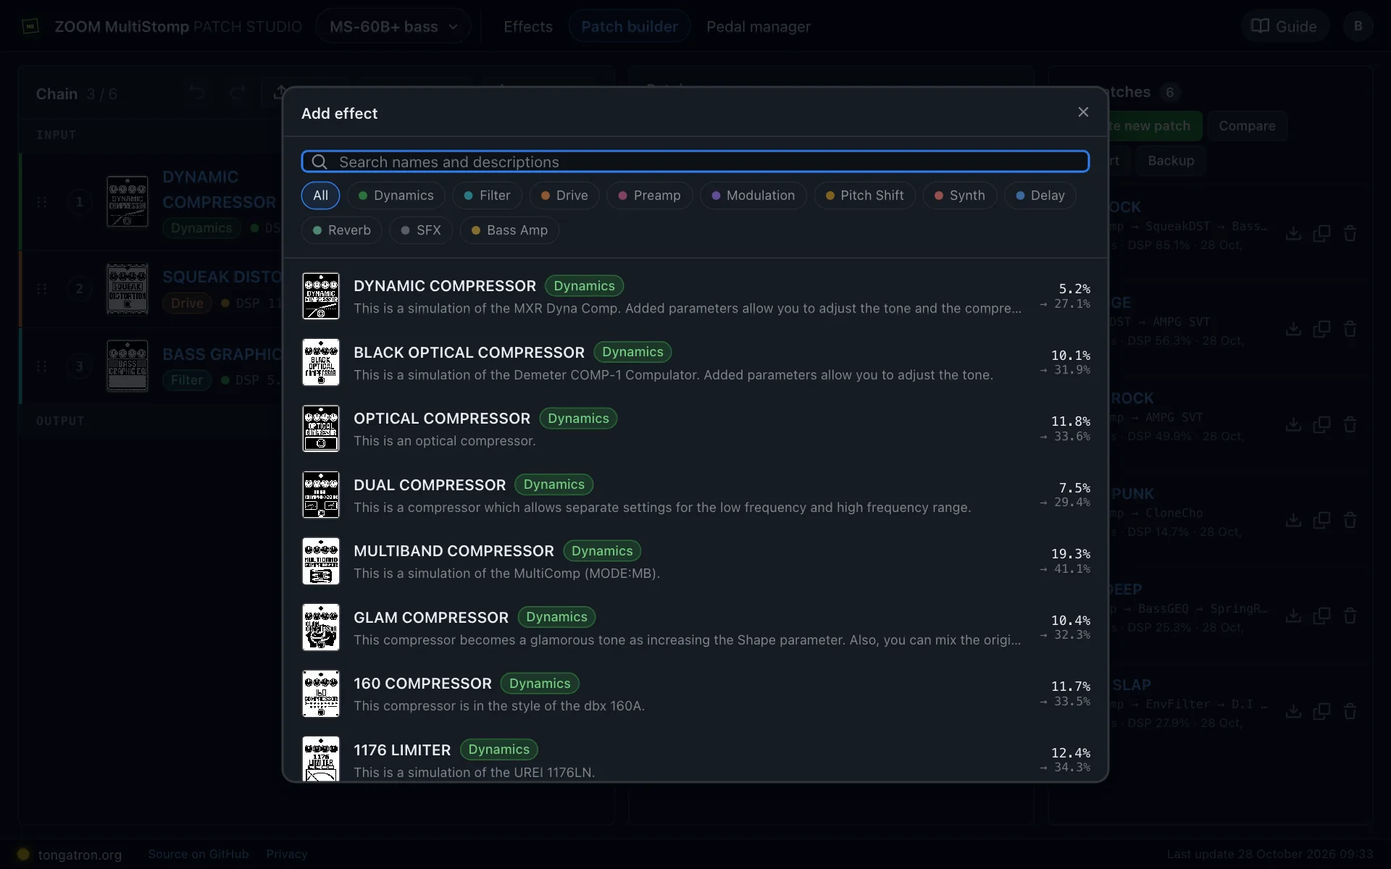
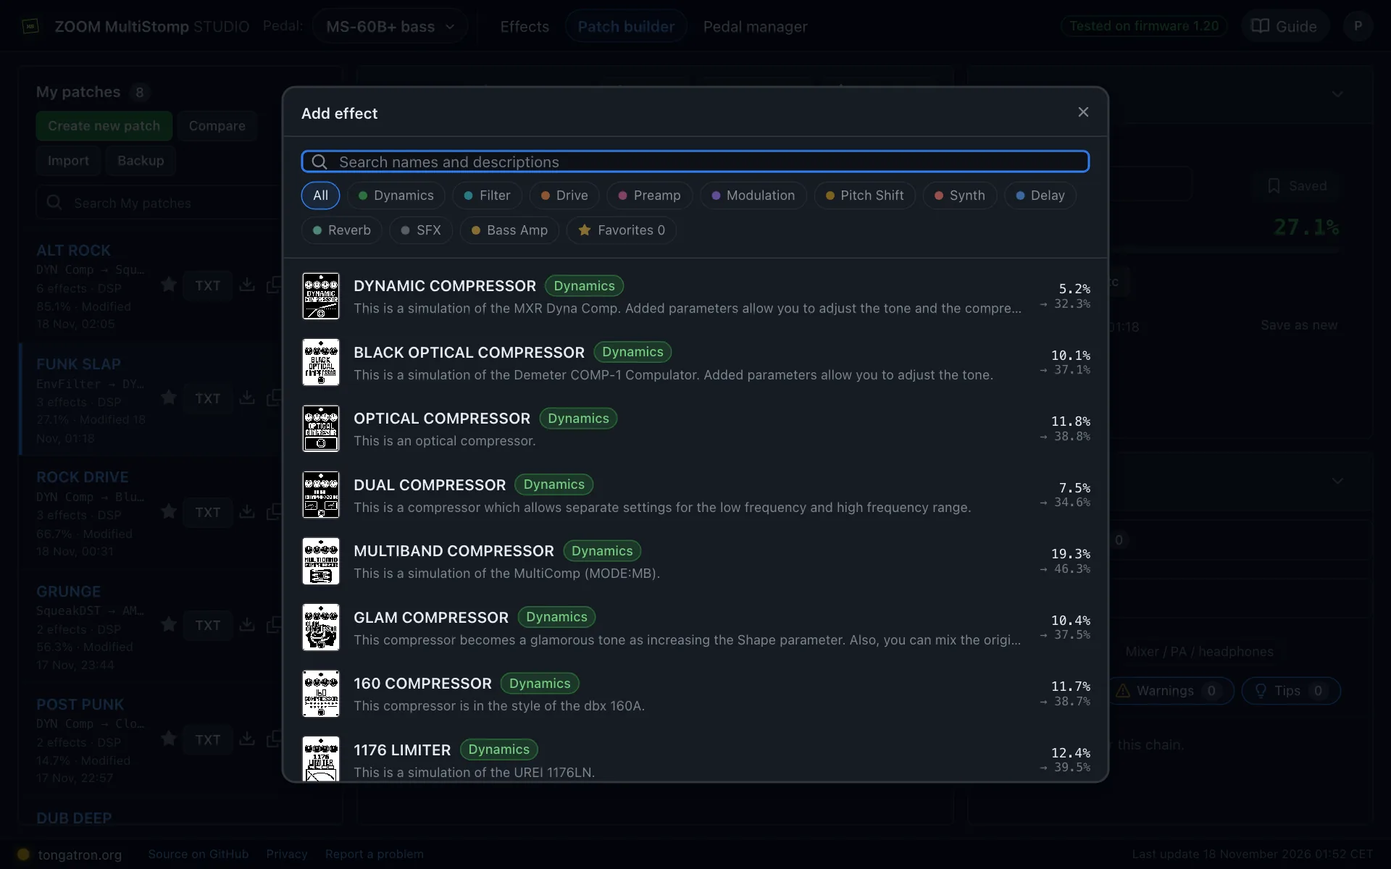
Home: Patch builder and Pedal manager section for the MS-60B+ and MS-70CDR+
Right under the hero, a section shows both tools for the MS-60B+ and the
MS-70CDR+, with a switch above each screenshot (the switches move together)
and links to both pedals' pages; it replaces the old hero screenshot.

New tools/landing-shots.mjs takes the home screenshots from the real pages
(local server, a test account, sample patches, the simulated pedal; cwebp).
Retaken: menu (six pedals), Effects, Add effect, MS-50G+ builder (Beta bar);
alt texts updated. The four screenshots no page used any more are removed.

The Collapse chevron of the Patch and Advice panes was a broken SVG path in
the MS-50G+ and MS-70CDR+ builders (and slightly off in the MS-60B+ Advice):
all six now use the Octicons chevron-down.

tools/fullscreen-test.mjs checks the new section; CLAUDE.md describes it.

diff --git a/site/index.html b/site/index.html
@@ -120,8 +120,17 @@
       .lp-shot { margin: 0; }
       .lp-shot img { display: block; width: 100%; height: auto; border: 1px solid var(--border); border-radius: calc(var(--radius) * 2); background: var(--bg); box-shadow: 0 20px 50px rgba(0, 0, 0, .45); }
       .lp-shot figcaption { margin-top: 12px; font-size: 13px; color: var(--fg-muted); }
-      .lp-hero .lp-shot { margin-top: 48px; }
       .lp-shot--small img { box-shadow: 0 8px 24px rgba(0, 0, 0, .4); }
+      .lp-shot--menu { max-width: 292px; justify-self: center; }
+      /* Patch builder and Pedal manager: a switch above each screenshot shows the page of either pedal (all the switches move together; hidden until the script runs) */
+      .lp-switch { display: inline-flex; gap: 4px; margin: 0 0 12px; padding: 3px; border: 1px solid var(--border); border-radius: 2em; background: var(--bg-subtle); }
+      .lp-switch[hidden], .lp-switchable [data-pedal][hidden] { display: none; }
+      .lp-switch button { height: 28px; padding: 0 14px; border: 0; border-radius: 2em; font: inherit; font-size: 13px; font-weight: 600; color: var(--fg-muted); background: none; cursor: pointer; }
+      .lp-switch button:hover { color: var(--fg); }
+      .lp-switch button[aria-pressed="true"] { color: var(--fg); background: var(--bg-muted); box-shadow: inset 0 0 0 1px var(--border); }
+      .lp-switch button:focus-visible { outline: 2px solid var(--accent-fg); outline-offset: 2px; }
+      .lp-switch small { margin-left: 4px; font-size: 12px; font-weight: 500; color: var(--fg-muted); }
+      .lp-tour-text .lp-cta { margin-top: 20px; }
       .lp-split--wide { grid-template-columns: minmax(0, 1fr) minmax(0, 1.5fr); align-items: start; }
       .lp-stack { display: grid; gap: 28px; }
       .lp-shot--dialog { max-width: 440px; }
@@ -187,10 +196,58 @@
             </figcaption>
           </figure>
         </div>
-        <figure class="lp-shot">
-          <img src="landing/shots/builder.webp" alt="The Patch builder of the studio: a chain of six effects from DYNAMIC COMPRESSOR to ROOM REVERB, the patch name and a DSP load of 85%, the Advice pane with a tip, and the My patches list on the right." width="1920" height="1200" fetchpriority="high" />
-          <figcaption>The Patch builder: a chain of 6 effects at 85% DSP, advice with sources, and your saved patches at the right.</figcaption>
-        </figure>
+      </section>
+
+      <section id="studio" aria-labelledby="studio-title">
+        <p class="lp-eyebrow">Patch builder and Pedal manager · MS-60B+ and MS-70CDR+</p>
+        <h2 id="studio-title">Build a patch, then put it on the pedal</h2>
+        <p class="lp-lead">The two tools at the heart of the studio, the same for the MS-60B+ bass and the MS-70CDR+ spatial pedal, each with its own effects and advice. Switch the pedal above a picture to see its page.</p>
+        <div class="lp-tour">
+          <div class="lp-tour-row">
+            <div class="lp-tour-text">
+              <h3>Patch builder</h3>
+              <p>Your saved patches at the left, the chain in the middle, the patch and its advice at the right.</p>
+              <ul class="lp-checks">
+                <li><b>Up to 6 effects</b>, as on the pedal: drag them into order and set every parameter with its real range.</li>
+                <li><b>Live DSP meter:</b> the load of each effect and of the whole chain against the 100% limit.</li>
+                <li><b>Advice</b> on effect order and levels, with sources, often with a one-click fix.</li>
+                <li><b>My patches:</b> save, compare, back up, and download a <code>.zptc</code> file for Handy Guitar Lab.</li>
+                <li><b>Undo and redo</b> for every edit, also for a deleted or duplicated patch.</li>
+              </ul>
+              <div class="lp-cta lp-pedal-links"><a class="btn btn-sm btn-primary" href="ms-60b/builder.html">MS-60B+ builder</a> <a class="btn btn-sm" href="ms-70cdr/builder.html">MS-70CDR+ builder</a></div>
+            </div>
+            <figure class="lp-shot lp-switchable">
+              <div class="lp-switch" role="group" aria-label="Pedal shown" hidden><button type="button" data-pedal="ms60b" aria-pressed="true">MS-60B+<small>bass</small></button><button type="button" data-pedal="ms70cdr" aria-pressed="false">MS-70CDR+<small>spatial</small></button></div>
+              <img data-pedal="ms60b" src="landing/shots/ms60b-builder.webp" alt="The MS-60B+ Patch builder: My patches on the left with ALT ROCK open, its chain of six effects from DYNAMIC COMPRESSOR to ROOM REVERB in the middle, and on the right the saved patch at 85.1% DSP with Advice under it showing a tip." width="1920" height="1200" fetchpriority="high" />
+              <img data-pedal="ms70cdr" src="landing/shots/ms70cdr-builder.webp" alt="The MS-70CDR+ Patch builder under the yellow Testing bar: My patches on the left with DREAM WASH open, its chain of six effects from COMPRESSOR to HALL REVERB in the middle, and on the right the saved patch at 40.7% DSP with Advice under it." width="1920" height="1200" loading="lazy" hidden />
+              <figcaption data-pedal="ms60b">MS-60B+ bass: a chain of 6 effects at 85.1% DSP, with a tip from Advice.</figcaption>
+              <figcaption data-pedal="ms70cdr" hidden>MS-70CDR+ spatial: the same builder, with its modulation, delay and reverb effects and its own advice rules.</figcaption>
+            </figure>
+          </div>
+
+          <div class="lp-tour-row lp-tour-row--flip">
+            <div class="lp-tour-text">
+              <h3>Pedal manager</h3>
+              <p>Connect the pedal with a USB cable: the patches stored on it next to the ones you saved, without Handy Guitar Lab.</p>
+              <ul class="lp-checks">
+                <li><b>Read</b> every memory of the pedal and open a patch in the builder to edit it.</li>
+                <li><b>Write</b> a patch from My patches to the memory you choose, or clear one.</li>
+                <li><b>Arrange:</b> rename, move or swap memories, or drag the whole pedal into a new order.</li>
+                <li><b>Backup first:</b> before a memory is overwritten its patch is kept in Backups, and you can restore it.</li>
+                <li><b>Checked:</b> after a write the memory is read back, and <b>Undo</b> takes the change back.</li>
+              </ul>
+              <div class="lp-cta lp-pedal-links"><a class="btn btn-sm btn-primary" href="ms-60b/pedal-manager.html">MS-60B+ manager</a> <a class="btn btn-sm" href="ms-70cdr/pedal-manager.html">MS-70CDR+ manager</a></div>
+            </div>
+            <figure class="lp-shot lp-switchable">
+              <div class="lp-switch" role="group" aria-label="Pedal shown" hidden><button type="button" data-pedal="ms60b" aria-pressed="true">MS-60B+<small>bass</small></button><button type="button" data-pedal="ms70cdr" aria-pressed="false">MS-70CDR+<small>spatial</small></button></div>
+              <img data-pedal="ms60b" src="landing/shots/ms60b-pedal-manager.webp" alt="The MS-60B+ Pedal manager with a pedal connected: the red pedal drawing and the connection box on the left, the 100 memories of the pedal in the middle with memory 4 ALT ROCK open to its six effects and its buttons, and My patches on the right, each with a button that sends it to the pedal." width="1920" height="1200" loading="lazy" />
+              <img data-pedal="ms70cdr" src="landing/shots/ms70cdr-pedal-manager.webp" alt="The MS-70CDR+ Pedal manager under the yellow Testing bar, with a pedal connected: the blue pedal drawing on the left, the memories of the pedal in the middle with memory 4 DREAM WASH open to its six effects, and My patches on the right." width="1920" height="1200" loading="lazy" hidden />
+              <figcaption data-pedal="ms60b">MS-60B+: a memory open, ready to edit in the builder, rename or copy to My patches. Shown with a simulated pedal.</figcaption>
+              <figcaption data-pedal="ms70cdr" hidden>MS-70CDR+: the same manager, now being tested on a real pedal. Shown with a simulated pedal.</figcaption>
+            </figure>
+          </div>
+        </div>
+        <p class="lp-note">The Pedal manager works in Chrome or Edge on a computer (Web MIDI); the USB protocol is not documented by ZOOM. The MS-70CDR+ is being tested on a real pedal: until the tests are done, write to a free memory and check the patch on the pedal. The MS-50G+ guitar has both tools too, in beta.</p>
       </section>
 
       <section id="pedals" aria-labelledby="pedals-title">
@@ -200,8 +257,8 @@
             <h2 id="pedals-title">Six pedals, one studio</h2>
             <p class="lp-lead" style="margin-bottom: 0;">Switch between them at the top of every page of the studio. The bass version is tested on a real pedal; the guitar and spatial versions are being tested, and the drive, amp and looper pedals are in beta, waiting for testers.</p>
           </div>
-          <figure class="lp-shot lp-shot--small">
-            <img src="landing/shots/menu.webp" alt="The pedal menu at the top of the studio: MS-60B+ bass with the green tag Tested on firmware 1.20, and MS-50G+ guitar with the grey tag Not tested." width="960" height="330" loading="lazy" />
+          <figure class="lp-shot lp-shot--small lp-shot--menu">
+            <img src="landing/shots/menu.webp" alt="The pedal menu at the top of the studio, open: MS-60B+ bass ticked, MS-50G+ guitar with the tag Beta, MS-70CDR+ spatial with the tag Testing, and the MS-200D+ drive, MS-80IR+ amp and MS-90LP+ looper with the tag Beta." width="438" height="426" loading="lazy" />
           </figure>
         </div>
         <div class="lp-pedals">
@@ -335,7 +392,7 @@
         <ol class="lp-steps">
           <li><h3>Build the chain</h3><p>Pick up to 6 effects, drag them into order and set every parameter with the real ranges.</p></li>
           <li><h3>Check it</h3><p>Watch the DSP load against the 100% limit and read the advice before you leave the desk.</p></li>
-          <li><h3>Send it to the pedal</h3><p>Download the <code>.zptc</code> file for Handy Guitar Lab, or connect the MS-60B+ by USB and write it from the Pedal manager.</p></li>
+          <li><h3>Send it to the pedal</h3><p>Download the <code>.zptc</code> file for Handy Guitar Lab, or connect the MS-60B+ or MS-70CDR+ by USB and write it from the Pedal manager.</p></li>
         </ol>
       </section>
 
@@ -440,8 +497,8 @@
             </div>
           </div>
           <figure class="lp-shot">
-            <img src="landing/shots/ms50g-builder.webp" alt="The MS-50G+ Patch builder with a guitar chain of six effects from COMPRESSOR to HALL REVERB at 70% DSP, under a red notice that no generated patch has been checked on a real MS-50G+ yet." width="1920" height="1200" loading="lazy" />
-            <figcaption>The MS-50G+ builder: the same studio, with a notice that it is not tested yet.</figcaption>
+            <img src="landing/shots/ms50g-builder.webp" alt="The MS-50G+ Patch builder with a guitar chain of six effects from COMPRESSOR to HALL REVERB at 70.1% DSP, under the amber Beta bar that says the pedal has not been tested on real hardware yet, with the Help us test and Write to us buttons." width="1920" height="1200" loading="lazy" />
+            <figcaption>The MS-50G+ builder: the same studio, with a Beta bar until it is tested.</figcaption>
           </figure>
         </div>
       </section>
@@ -488,6 +545,23 @@
         stage.addEventListener('keydown', function (e) {
           if (e.key === 'ArrowLeft') show(current - 1);
           else if (e.key === 'ArrowRight') show(current + 1);
+        });
+      })();
+      // Patch builder and Pedal manager: the switches (hidden until this runs) show the pages of one pedal in every picture
+      (function () {
+        var parts = document.querySelectorAll('.lp-switchable [data-pedal]');
+        function pick(pedal) {
+          parts.forEach(function (part) {
+            if (part.tagName === 'BUTTON') part.setAttribute('aria-pressed', String(part.dataset.pedal === pedal));
+            else part.hidden = part.dataset.pedal !== pedal;
+          });
+        }
+        document.querySelectorAll('.lp-switch').forEach(function (group) {
+          group.hidden = false;
+          group.addEventListener('click', function (e) {
+            var button = e.target.closest('button[data-pedal]');
+            if (button) pick(button.dataset.pedal);
+          });
         });
       })();
     </script>

diff --git a/site/ms-70cdr/builder.html b/site/ms-70cdr/builder.html
@@ -101,7 +101,7 @@
 
       <div class="fs-col builder-mid">
         <div class="Box fs-pane side-box patch-box" data-collapsible-panel="patch">
-          <div class="Box-header"><h2 class="Box-title" id="patch-title">Patch</h2><button class="btn btn-sm btn-icon btn-invisible box-collapse" type="button" data-collapse="patch" aria-controls="patch-panel-body" aria-expanded="true" aria-label="Collapse Patch" title="Collapse Patch"><svg viewBox="0 0 16 16" width="16" height="16" aria-hidden="true"><path fill="currentColor" d="M3.22 5.22a.75.75 0 0 1 1.06 0L8 8.94l3.72-3.72a.75.75 0 1 1 1.06 1.06l-4.25-4.25a.75.75 0 1 1-1.06 1.06l-4.25-4.25a.75.75 0 1 1 1.06-1.06l4.25-4.25a.75.75 0 1 1 1.06 1.06Z"/></svg></button></div>
+          <div class="Box-header"><h2 class="Box-title" id="patch-title">Patch</h2><button class="btn btn-sm btn-icon btn-invisible box-collapse" type="button" data-collapse="patch" aria-controls="patch-panel-body" aria-expanded="true" aria-label="Collapse Patch" title="Collapse Patch"><svg viewBox="0 0 16 16" width="16" height="16" aria-hidden="true"><path fill="currentColor" d="M3.22 5.22a.75.75 0 0 1 1.06 0L8 8.94l3.72-3.72a.75.75 0 1 1 1.06 1.06l-4.25 4.25a.75.75 0 0 1-1.06 0L3.22 6.28a.75.75 0 0 1 0-1.06Z"/></svg></button></div>
           <div class="fs-pane-body side-box-body" id="patch-panel-body">
             <div class="patch-name-row">
               <label class="field patch-name-field">
@@ -140,7 +140,7 @@
         </div>
         <section class="Box fs-pane advice" id="advice" aria-labelledby="advice-title" data-collapsible-panel="advice">
           <div class="Box-header">
-            <h2 class="Box-title" id="advice-title">Advice <span class="Counter" id="advice-count">0</span></h2><button class="btn btn-sm btn-icon btn-invisible box-collapse" type="button" data-collapse="advice" aria-controls="advice-panel-body" aria-expanded="true" aria-label="Collapse Advice" title="Collapse Advice"><svg viewBox="0 0 16 16" width="16" height="16" aria-hidden="true"><path fill="currentColor" d="M3.22 5.22a.75.75 0 0 1 1.06 0L8 8.94l3.72-3.72a.75.75 0 1 1 1.06 1.06l-4.25 4.25a.75.75 0 1 1-1.06 1.06l-4.25-4.25a.75.75 0 1 1-1.06 1.06l-4.25-4.25a.75.75 0 1 1-1.06-1.06l4.25-4.25a.75.75 0 1 1 1.06-1.06Z"/></svg></button>
+            <h2 class="Box-title" id="advice-title">Advice <span class="Counter" id="advice-count">0</span></h2><button class="btn btn-sm btn-icon btn-invisible box-collapse" type="button" data-collapse="advice" aria-controls="advice-panel-body" aria-expanded="true" aria-label="Collapse Advice" title="Collapse Advice"><svg viewBox="0 0 16 16" width="16" height="16" aria-hidden="true"><path fill="currentColor" d="M3.22 5.22a.75.75 0 0 1 1.06 0L8 8.94l3.72-3.72a.75.75 0 1 1 1.06 1.06l-4.25 4.25a.75.75 0 0 1-1.06 0L3.22 6.28a.75.75 0 0 1 0-1.06Z"/></svg></button>
           </div>
           <div class="fs-pane-body" id="advice-panel-body" tabindex="0" aria-label="Advice">
             <ul class="notices" id="notices" aria-live="polite"></ul>

diff --git a/site/ms-50g/builder.html b/site/ms-50g/builder.html
@@ -100,7 +100,7 @@
 
       <div class="fs-col builder-mid">
         <div class="Box fs-pane side-box patch-box" data-collapsible-panel="patch">
-          <div class="Box-header"><h2 class="Box-title" id="patch-title">Patch</h2><button class="btn btn-sm btn-icon btn-invisible box-collapse" type="button" data-collapse="patch" aria-controls="patch-panel-body" aria-expanded="true" aria-label="Collapse Patch" title="Collapse Patch"><svg viewBox="0 0 16 16" width="16" height="16" aria-hidden="true"><path fill="currentColor" d="M3.22 5.22a.75.75 0 0 1 1.06 0L8 8.94l3.72-3.72a.75.75 0 1 1 1.06 1.06l-4.25 4.25a.75.75 0 1 1-1.06 1.06l-4.25-4.25a.75.75 0 0 1 1.06 0Z"/></svg></button></div>
+          <div class="Box-header"><h2 class="Box-title" id="patch-title">Patch</h2><button class="btn btn-sm btn-icon btn-invisible box-collapse" type="button" data-collapse="patch" aria-controls="patch-panel-body" aria-expanded="true" aria-label="Collapse Patch" title="Collapse Patch"><svg viewBox="0 0 16 16" width="16" height="16" aria-hidden="true"><path fill="currentColor" d="M3.22 5.22a.75.75 0 0 1 1.06 0L8 8.94l3.72-3.72a.75.75 0 1 1 1.06 1.06l-4.25 4.25a.75.75 0 0 1-1.06 0L3.22 6.28a.75.75 0 0 1 0-1.06Z"/></svg></button></div>
           <div class="fs-pane-body side-box-body" id="patch-panel-body">
             <div class="patch-name-row">
               <label class="field patch-name-field">
@@ -139,7 +139,7 @@
         </div>
         <section class="Box fs-pane advice" id="advice" aria-labelledby="advice-title" data-collapsible-panel="advice">
           <div class="Box-header">
-            <h2 class="Box-title" id="advice-title">Advice <span class="Counter" id="advice-count">0</span></h2><button class="btn btn-sm btn-icon btn-invisible box-collapse" type="button" data-collapse="advice" aria-controls="advice-panel-body" aria-expanded="true" aria-label="Collapse Advice" title="Collapse Advice"><svg viewBox="0 0 16 16" width="16" height="16" aria-hidden="true"><path fill="currentColor" d="M3.22 5.22a.75.75 0 0 1 1.06 0L8 8.94l3.72-3.72a.75.75 0 1 1 1.06 1.06l-4.25 4.25a.75.75 0 1 1-1.06 1.06l-4.25-4.25a.75.75 0 1 1-1.06 1.06l-4.25 4.25a.75.75 0 1 1-1.06 1.06Z"/></svg></button>
+            <h2 class="Box-title" id="advice-title">Advice <span class="Counter" id="advice-count">0</span></h2><button class="btn btn-sm btn-icon btn-invisible box-collapse" type="button" data-collapse="advice" aria-controls="advice-panel-body" aria-expanded="true" aria-label="Collapse Advice" title="Collapse Advice"><svg viewBox="0 0 16 16" width="16" height="16" aria-hidden="true"><path fill="currentColor" d="M3.22 5.22a.75.75 0 0 1 1.06 0L8 8.94l3.72-3.72a.75.75 0 1 1 1.06 1.06l-4.25 4.25a.75.75 0 0 1-1.06 0L3.22 6.28a.75.75 0 0 1 0-1.06Z"/></svg></button>
           </div>
           <div class="fs-pane-body" id="advice-panel-body" tabindex="0" aria-label="Advice">
             <ul class="notices" id="notices" aria-live="polite"></ul>

diff --git a/site/ms-60b/builder.html b/site/ms-60b/builder.html
@@ -184,7 +184,7 @@
         </div>
         <section class="Box fs-pane advice" id="advice" aria-labelledby="advice-title" data-collapsible-panel="advice">
           <div class="Box-header">
-            <h2 class="Box-title" id="advice-title">Advice <span class="Counter" id="advice-count">0</span></h2><button class="btn btn-sm btn-icon btn-invisible box-collapse" type="button" data-collapse="advice" aria-controls="advice-panel-body" aria-expanded="true" aria-label="Collapse Advice" title="Collapse Advice"><svg viewBox="0 0 16 16" width="16" height="16" aria-hidden="true"><path fill="currentColor" d="M3.22 5.22a.75.75 0 0 1 1.06 0L8 8.94l3.72-3.72a.75.75 0 1 1 1.06 1.06l-4.25 4.25a.75.75 0 1 1-1.06 0L3.22 6.28a.75.75 0 0 1 0-1.06Z"/></svg></button>
+            <h2 class="Box-title" id="advice-title">Advice <span class="Counter" id="advice-count">0</span></h2><button class="btn btn-sm btn-icon btn-invisible box-collapse" type="button" data-collapse="advice" aria-controls="advice-panel-body" aria-expanded="true" aria-label="Collapse Advice" title="Collapse Advice"><svg viewBox="0 0 16 16" width="16" height="16" aria-hidden="true"><path fill="currentColor" d="M3.22 5.22a.75.75 0 0 1 1.06 0L8 8.94l3.72-3.72a.75.75 0 1 1 1.06 1.06l-4.25 4.25a.75.75 0 0 1-1.06 0L3.22 6.28a.75.75 0 0 1 0-1.06Z"/></svg></button>
           </div>
           <div class="fs-pane-body" id="advice-panel-body" tabindex="0" aria-label="Advice">
             <ul class="notices" id="notices" aria-live="polite"></ul>

diff --git a/CLAUDE.md b/CLAUDE.md
@@ -2,7 +2,7 @@
 
 - **No native browser dialogs.** The pages never call `alert`, `confirm` or `prompt`: questions and messages come from `site/dialogs.js` (`DIALOGS.confirm`, `DIALOGS.alert`, `DIALOGS.toast`, in the style of the site's Overlay dialogs; loaded before `builder.js` and `pedal-manager.js`), from the Pedal manager's own `#usb-confirm` dialog, or from the dialogs of `account.js` and `report.js`. The builder's Undo/Redo (buttons in the Chain header, Ctrl/⌘+Z) keeps one list for edits of the patch and for My patches: deleting or duplicating a patch is a `{ kind: 'library' }` step (`recordLibraryStep` in `builder.js`), and a deletion also shows a message with an Undo button. `tools/e2e-test.mjs` and `tools/pedal-manager-test.mjs` fail when the browser raises one. The design prototypes in `site/designs/` use `PROTO.notice`.
 - **The site is English-only.** Everything under `site/` — page text, UI strings, notices and error messages, `title`/`aria-label` attributes, code and CSS comments — must be in English. Do not add strings in other languages.
-- **No mobile version, by decision (2026-10-27).** The site is for windows of at least 800 × 640 px (computers, tablets held sideways). Do not add phone or small-screen layouts, scrolling fallbacks or media queries for them. Below that size `fullscreen.js` shows a notice (`.fs-small`, `fullscreen.css`) instead of the page: it says the window is too small and how big it is, suggests a bigger screen or the browser's full-screen mode, and says what the site does; keep that description true when pages or features change. The limit is one number in three places (the media query in `fullscreen.css`, the text in `fullscreen.js`, `tools/fullscreen-test.mjs`): change them together, and only after checking that every page fits at the new size. The home page is `site/index.html` (served at `/`; it scrolls and is not part of this layout; its images are in `site/landing/`, whose `index.html` is only a small page that sends the old `/landing/` address to `/`; old root links with a query or #fragment go on to `/ms-60b/`); its "Help wanted" box has no steps, only buttons for every pedal in test or beta: **Help us test the MS-50G+** and **Help us test the MS-70CDR+** (to their `help.html`) and **I own an MS-200D+ / MS-80IR+ / MS-90LP+** (the Contact us form); keep it in step with `site/pedals.js` when a pedal is added. It has no Pedal manager or Tone ideas section (removed 2026-11-17), and its header has a **Contact us** button that opens the form of `site/report.js` (contact mode, same Telegram bot; `report.js` also works on pages without a status bar).
+- **No mobile version, by decision (2026-10-27).** The site is for windows of at least 800 × 640 px (computers, tablets held sideways). Do not add phone or small-screen layouts, scrolling fallbacks or media queries for them. Below that size `fullscreen.js` shows a notice (`.fs-small`, `fullscreen.css`) instead of the page: it says the window is too small and how big it is, suggests a bigger screen or the browser's full-screen mode, and says what the site does; keep that description true when pages or features change. The limit is one number in three places (the media query in `fullscreen.css`, the text in `fullscreen.js`, `tools/fullscreen-test.mjs`): change them together, and only after checking that every page fits at the new size. The home page is `site/index.html` (served at `/`; it scrolls and is not part of this layout; its images are in `site/landing/`, whose `index.html` is only a small page that sends the old `/landing/` address to `/`; old root links with a query or #fragment go on to `/ms-60b/`); its "Help wanted" box has no steps, only buttons for every pedal in test or beta: **Help us test the MS-50G+** and **Help us test the MS-70CDR+** (to their `help.html`) and **I own an MS-200D+ / MS-80IR+ / MS-90LP+** (the Contact us form); keep it in step with `site/pedals.js` when a pedal is added. It has no Tone ideas section (removed 2026-11-17). Right under the hero, the section **Patch builder and Pedal manager** (`#studio`, since 2026-11-18) shows both tools for the MS-60B+ and the MS-70CDR+, with a switch above each screenshot that shows the page of either pedal. The screenshots in `site/landing/shots/` are taken from the real pages by `PW_CHANNEL=chrome node tools/landing-shots.mjs` (local server, a test account, sample patches, the simulated pedal; needs `cwebp`): run it again after visible changes to those pages instead of editing the images, and keep the `alt` texts true. Its header has a **Contact us** button that opens the form of `site/report.js` (contact mode, same Telegram bot; `report.js` also works on pages without a status bar).
 - **Effects List text is verbatim.** Effect and parameter descriptions in `site/ms-60b/effects-data.js` are copied exactly from the official ZOOM MS-60B+ Effects List; never translate or paraphrase them.
 - Link the English ZOOM manual: `https://zoomcorp.com/manuals/ms-60bplus-en/#unique_41`. The Resources page, linked from the Guide (`site/ms-60b/resources.html`, `site/ms-50g/resources.html`) lists the manuals in English and Italian and the Effects List PDF; it also links the Italian one (`https://zoomcorp.com/manuals/ms-60bplus-it/`); every other link points to the English manual. Use `.` as the decimal separator and `en-GB` date formatting.
 - The `.zptc` codec lives in `site/zptc.js` and is shared with `tools/zptc.mjs`. After changing it, run `node tools/zptc.mjs roundtrip patches/0* "patches/07Big Black .zptc"`: every file must round-trip byte for byte. Format notes: `docs/zptc-reverse-engineering.md`.
